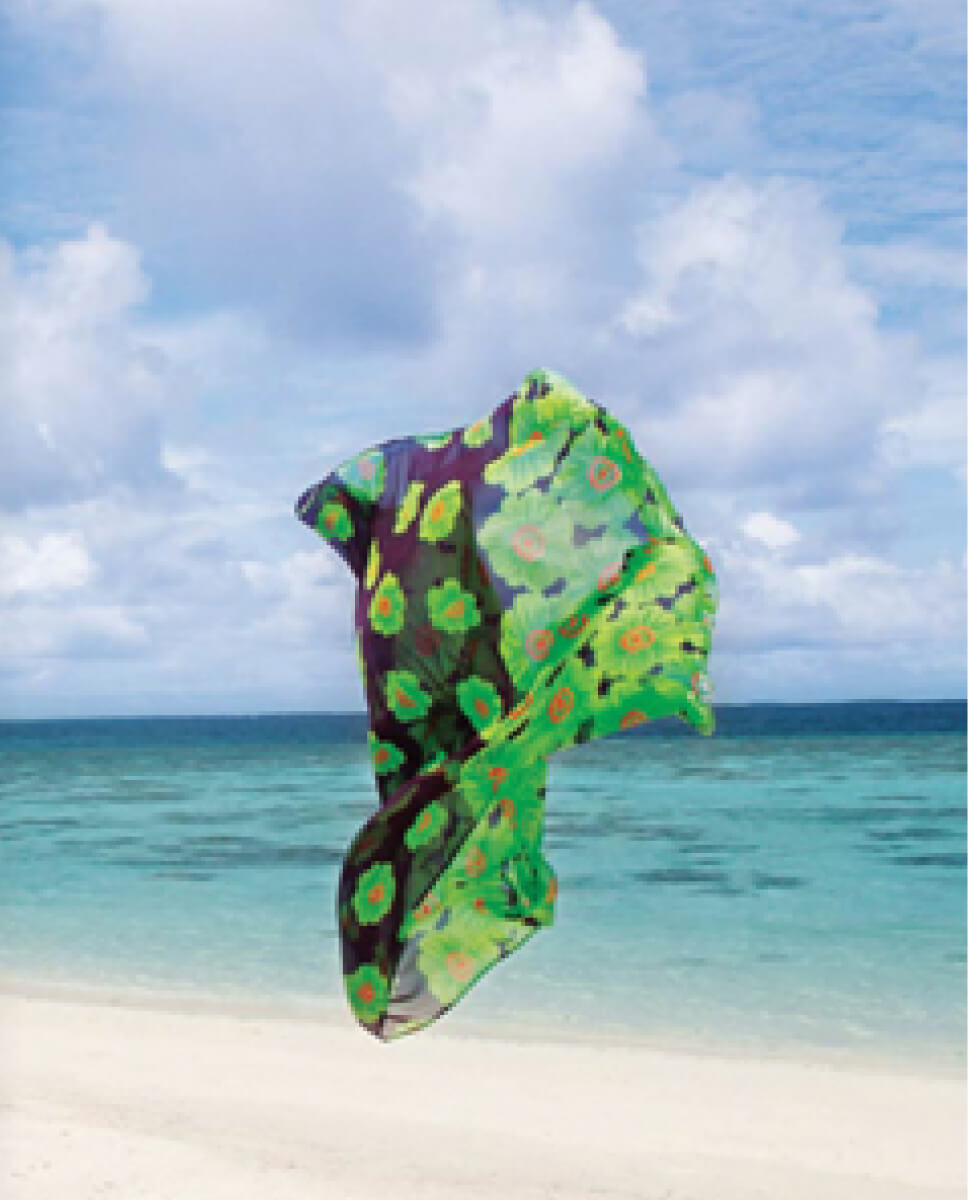
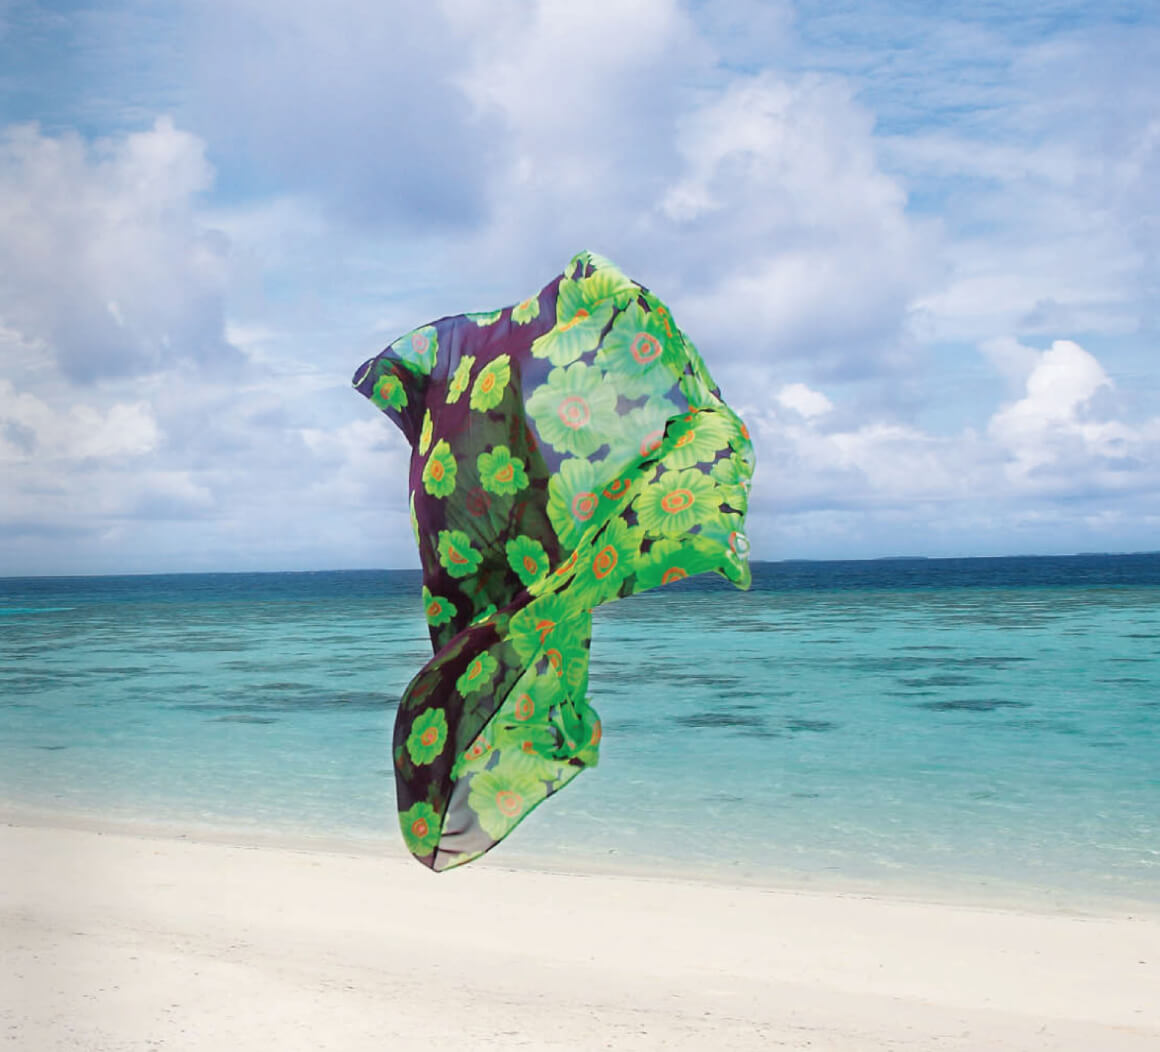
done

diff --git a/src/app/pages/projects/essence/essence.component.html b/src/app/pages/projects/essence/essence.component.html
@@ -55,7 +55,7 @@
                 <div class="col-sm-12 col-md-12 col-lg-6 align-self-end"  >
                     <div class="row" >
                         <div class="col-auto my-4" >
-                            <p class="fs-5 prxTopToBottom" >The Campaign →</p>
+                            <p class="fs-5" >The Campaign →</p>
                         </div>
                         <div class="col-auto" >
                             <h2 class="display-1 fw-bold lh-small" >Surf,<br>
@@ -80,7 +80,7 @@
                     <img src="projects/images/essence/essence-2.jpg" alt="" class="cover colDownAnim" >
                 </div>
                 <div class="col" >
-                    <img src="projects/images/essence/essence-3.jpg" alt="" class="cover colUpAnim" >
+                    <img src="projects/images/essence/essence-3.jpg" alt="" class="contain colUpAnim" >
                 </div>
             </div>
             <div class="row mb-4 mb-lg-5" >
@@ -92,14 +92,14 @@
             </div>
             <div class="row mb-4 gx-lg-5 mb-lg-5" >
                 <div class="col" >
-                    <img src="projects/images/essence/essence-5.jpg" alt="" class="cover colDownAnim" >
+                    <img src="projects/images/essence/essence-5.jpg" alt="" class="contain colDownAnim" >
                 </div>
                 <div class="col" >
                     <img src="projects/images/essence/essence-6.jpg" alt="" class="cover colUpAnim" >
                 </div>
             </div>
             <div class="row mb-4 mb-lg-5 justify-content-end" >
-                <div class="col-10 text-end" >
+                <div class="col-12 text-end" >
                     <img src="projects/images/essence/essence-7.jpg" alt="" class="cover colLeftAnim" >
                 </div>
             </div>
